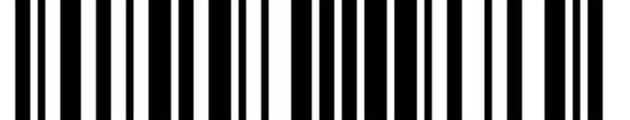
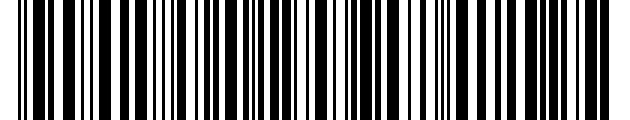
Reemplazar codigo de barras real por uno falso y ajustar velocidad a 2.9s
Se genera un codigo de barras ficticio (no es una simbologia valida, no
codifica datos) para proteger la identidad, y se ajusta la animacion de la
barra escaner a 2.9s.

Claude-Session: https://claude.ai/code/session_01DhtgnNfxEqH6XbXdqRvxKD

diff --git a/index.html b/index.html
@@ -88,7 +88,7 @@
     top: 0;
     left: 0;
     z-index: 9999;
-    animation: escanear 3.2s linear infinite;
+    animation: escanear 2.9s linear infinite;
   }
 
   @keyframes escanear {
